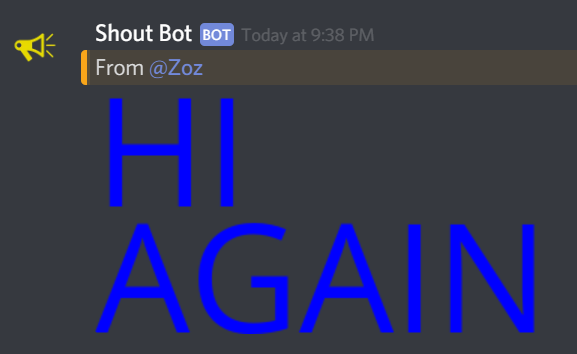
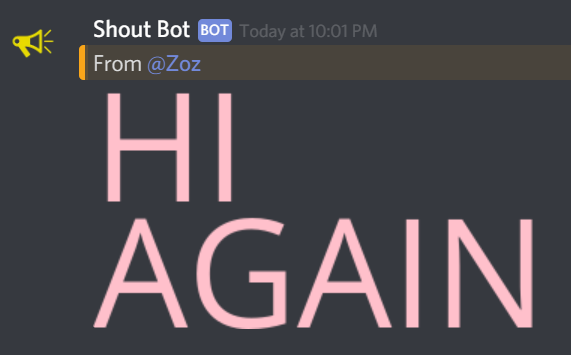
Redid demo 2 to have better visibility

diff --git a/public/index.html b/public/index.html
@@ -48,7 +48,7 @@
         <img data-src="demo.png" width="" height="" alt="" uk-img class="demo">
         <p class="uk-h2 turnThisHeader">Or This</p>
         <div class="inputTextHolder">
-          <p class="inputText">!shout@color:blue@size:100 HI AGAIN</p>
+          <p class="inputText">!shout@color:pink@size:100 HI AGAIN</p>
         </div>
         <p class="uk-h2 intoThisHeader">Into This</p>
         <img data-src="demo2.png" width="" height="" alt="" uk-img class="demo">

diff --git a/README.md b/README.md
@@ -13,7 +13,7 @@ Usage
 ![Command Result](https://github.com/Zozman/ShoutBot/blob/master/public/demo.png?raw=true")
 
 ```
-!shout@color:blue@size:100 HI AGAIN
+!shout@color:pink@size:100 HI AGAIN
 ```
 
 ![Command Result 2](https://github.com/Zozman/ShoutBot/blob/master/public/demo2.png?raw=true")
